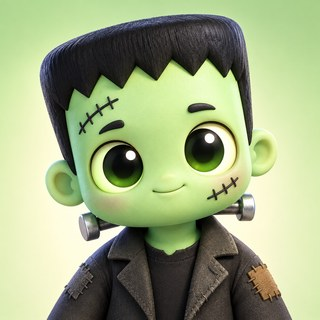
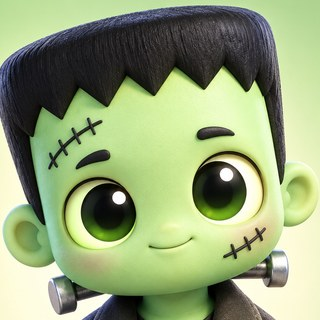
阿瓜、阿科、阿神頭像放大，同其他角色一樣大細
Claude-Session: https://claude.ai/code/session_01E2utfFQBUZUAHLnSXfgdjb

diff --git a/public/sw.js b/public/sw.js
@@ -1,5 +1,5 @@
 // 大富翁 service worker: keeps the app shell and art so the board opens without a network.
-const CACHE = "dafuweng-v273";
+const CACHE = "dafuweng-v274";
 const SHELL = [
   "/",
   "/manifest.webmanifest",
